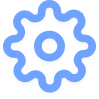
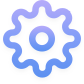
color theme refactor

diff --git a/src/components/Text.tsx b/src/components/Text.tsx
@@ -1,6 +1,6 @@
 import * as React from "react";
 import styled, { css } from "styled-components/native";
-import { white, grey, green, blue, red, darkPurple } from "../style/color";
+import { white, grey, green, red, darkPurple, lightGrey } from "../style/color";
 import { SIZE, COLOR } from "../services/enums";
 
 // --- types --- //
@@ -32,10 +32,6 @@ const greyText = css`
   color: ${grey};
 `;
 
-const blueText = css`
-  color: ${blue};
-`;
-
 const greenText = css`
   color: ${green};
 `;
@@ -46,6 +42,10 @@ const redText = css`
 
 const darkPurpleText = css`
   color: ${darkPurple};
+`;
+
+const lightGreyText = css`
+  color: ${lightGrey};
 `;
 
 const textShadow = css`
@@ -61,10 +61,10 @@ const StyledText = styled.Text`
   ${(p: Props) => (p.size === SIZE.big ? bigText : "")};
   ${(p: Props) => (p.color === COLOR.white ? whiteText : "")};
   ${(p: Props) => (p.color === COLOR.grey ? greyText : "")};
-  ${(p: Props) => (p.color === COLOR.blue ? blueText : "")};
   ${(p: Props) => (p.color === COLOR.green ? greenText : "")};
   ${(p: Props) => (p.color === COLOR.red ? redText : "")};
   ${(p: Props) => (p.color === COLOR.darkPurple ? darkPurpleText : "")};
+  ${(p: Props) => (p.color === COLOR.lightGrey ? lightGreyText : "")};
   ${(p: Props) => (p.shadow ? textShadow : "")};
   font-family: "Lato-Regular";
   background-color: transparent;

diff --git a/src/components/Background.tsx b/src/components/Background.tsx
@@ -1,17 +1,18 @@
 import * as React from "react";
 import styled from "styled-components/native";
-import { darkPurple } from "../style/color";
+import LinearGradient from "react-native-linear-gradient";
+import { darkPurple, purple } from "../style/color";
 
 // --- types --- //
 export interface Props {
-  color?: string;
   children: React.ReactChild | React.ReactChild[];
 }
 
 // --- styling --- //
-const Container = styled.View`
+const Container = styled(LinearGradient)`
   height: 100%;
-  background-color: ${(p: Props) => p.color || darkPurple};
+  width: 100%;
+  background-color: transparent;
   flex-direction: row;
   flex-wrap: wrap;
 `;
@@ -19,9 +20,15 @@ const Container = styled.View`
 class Background extends React.Component<Props, {}> {
   // --- render --- //
   render() {
-    const { children, color, ...props } = this.props;
+    const { children, ...props } = this.props;
     return (
-      <Container color={color} {...props}>
+      <Container
+        colors={[purple, purple, darkPurple]}
+        locations={[0, 0.35, 1]}
+        start={{ x: 0.0, y: 0.0 }}
+        end={{ x: 1, y: 1.0 }}
+        {...props}
+      >
         {children}
       </Container>
     );

diff --git a/src/components/ButtonOption.tsx b/src/components/ButtonOption.tsx
@@ -2,7 +2,7 @@ import * as React from "react";
 import styled from "styled-components/native";
 import { TouchableOpacity } from "react-native";
 import Text from "./Text";
-import { white, blue } from "../style/color";
+import { white, lightPurple, black } from "../style/color";
 import { COLOR } from "../services/enums";
 
 // --- types --- //
@@ -14,19 +14,19 @@ export interface Props {
 
 // --- styling --- //
 const Container: any = styled.View`
-  background-color: ${(p: Props) => (p.selected ? blue : white)};
+  background-color: ${(p: Props) => (p.selected ? lightPurple : white)};
   padding-top: 10px;
   padding-bottom: 11px;
   align-items: center;
   border-radius: 3px;
   shadow-opacity: 0.05;
-  shadow-color: #000000;
+  shadow-color: ${black};
   shadow-offset: 0px 8px;
   shadow-radius: 7px;
   elevation: 2;
 `;
 
-class ButtonOption extends React.Component<Props, State> {
+class ButtonOption extends React.Component<Props, {}> {
   // --- default props --- //
   static defaultProps: Partial<Props> = {
     selected: false

diff --git a/src/composites/Navigation.tsx b/src/composites/Navigation.tsx
@@ -52,20 +52,20 @@ class Navigation extends React.Component<Props, {}> {
       <Container>
         <Icon
           onPress={() => this.onRouteChange("/dashboard/accounts")}
-          width="28px"
-          height="30px"
+          width="25px"
+          height="27.6px"
           src={accountsIcon}
         />
         <Icon
           onPress={() => this.onRouteChange("/dashboard/transactions")}
-          width="28px"
-          height="20px"
+          width="26px"
+          height="18px"
           src={transactionsIcon}
         />
         <Icon
           onPress={() => this.onRouteChange("/dashboard/settings")}
-          width="31px"
-          height="31px"
+          width="26px"
+          height="26px"
           src={settingsIcon}
         />
       </Container>

diff --git a/src/style/color.ts b/src/style/color.ts
@@ -1,25 +1,12 @@
-const voidPurple = "#262B4C";
-const darkPurple = "#31375D";
-const purple = "#3E4474";
-const lightPurple = "#3B4B71";
-const white = "#FFFFFF";
-const grey = "#ADB0C4";
-const darkGrey = "#596586";
 const green = "#60D9C8";
-const blue = "#70A3FE";
 const red = "#F96193";
 const black = "#000000";
+const white = "#FFFFFF";
+const darkPurple = "#08055F";
+const purple = "#1C148A";
+const lightPurple = "#322CA3";
+const brightPurple = "#2F35B3";
+const grey = "#898CC0";
+const lightGrey = "#C7D1E9";
 
-export {
-  purple,
-  white,
-  grey,
-  green,
-  blue,
-  red,
-  lightPurple,
-  darkPurple,
-  black,
-  darkGrey,
-  voidPurple
-};
+export { purple, white, grey, green, red, lightPurple, darkPurple, black, brightPurple, lightGrey };

diff --git a/src/components/GradientBlock.tsx b/src/components/GradientBlock.tsx
@@ -1,7 +1,7 @@
 import * as React from "react";
 import styled from "styled-components/native";
 import LinearGradient from "react-native-linear-gradient";
-import { purple, lightPurple } from "../style/color";
+import { lightPurple, brightPurple } from "../style/color";
 
 // --- types --- //
 export interface Props {
@@ -32,7 +32,11 @@ class GradientBlock extends React.Component<Props, {}> {
   render() {
     const { children } = this.props;
     return (
-      <Card colors={[lightPurple, purple]} start={{ x: 0.0, y: 0.5 }} end={{ x: 1.0, y: 0.5 }}>
+      <Card
+        colors={[lightPurple, brightPurple]}
+        start={{ x: 0.0, y: 0.5 }}
+        end={{ x: 1.0, y: 0.5 }}
+      >
         {children}
       </Card>
     );

diff --git a/src/index.tsx b/src/index.tsx
@@ -3,7 +3,7 @@ import { StatusBar, Platform } from "react-native";
 import { Provider } from "mobx-react/native";
 import Router from "./routes";
 import store from "./store";
-import { voidPurple } from "./style/color";
+import { darkPurple } from "./style/color";
 
 class App extends React.Component<{}, {}> {
   // --- render --- //
@@ -11,7 +11,7 @@ class App extends React.Component<{}, {}> {
     return [
       <StatusBar
         barStyle="light-content"
-        backgroundColor={Platform.OS === "android" ? voidPurple : "transparent"}
+        backgroundColor={Platform.OS === "android" ? darkPurple : "transparent"}
         key="statusbar"
       />,
       <Provider {...store} key="provider">

diff --git a/src/composites/AccountCard.tsx b/src/composites/AccountCard.tsx
@@ -59,7 +59,9 @@ class AccountCard extends React.Component<Props, {}> {
       <GradientBlock>
         <CryptoSymbol src={icon} />
         <Balance>
-          <Text>{`${formatBalance(account.balance)} ${tickerToString(account.type)}`}</Text>
+          <Text color={COLOR.lightGrey}>{`${formatBalance(account.balance)} ${tickerToString(
+            account.type
+          )}`}</Text>
           <Text size={SIZE.small} color={COLOR.grey}>
             ${formatMoney(account.balance * /*TODO currency exchange*/ 7000)}
           </Text>

diff --git a/src/components/Separator.tsx b/src/components/Separator.tsx
@@ -1,11 +1,11 @@
 import styled from "styled-components/native";
-import { darkGrey } from "../style/color";
+import { grey } from "../style/color";
 
 // --- styling --- //
 const Separator = styled.View`
   width: 100%;
   height: 0.5px;
-  background-color: ${darkGrey};
+  background-color: ${grey};
 `;
 
 export default Separator;

diff --git a/src/views/AddAccountView.tsx b/src/views/AddAccountView.tsx
@@ -161,7 +161,7 @@ class AddAccountView extends React.Component<Props, State> {
             CANCEL
           </TouchableText>
           <TouchableText
-            color={COLOR.blue}
+            color={COLOR.white}
             onPress={this.onSave}
             disabled={!name || !publicAddress || !selected}
           >

diff --git a/src/views/AccountsView.tsx b/src/views/AccountsView.tsx
@@ -76,7 +76,7 @@ class AccountsView extends React.Component<Props, State> {
         <Text color={COLOR.grey} shadow>
           Total Balance
         </Text>
-        <Text size={SIZE.big} shadow>
+        <Text size={SIZE.big} color={COLOR.lightGrey} shadow>
           $1,280
         </Text>
       </BalanceView>,

diff --git a/src/services/enums.ts b/src/services/enums.ts
@@ -21,8 +21,8 @@ const enum SIZE {
 const enum COLOR {
   white = 1,
   grey = 2,
-  green = 3,
-  blue = 4,
+  lightGrey = 3,
+  green = 4,
   red = 5,
   darkPurple = 6
 }
